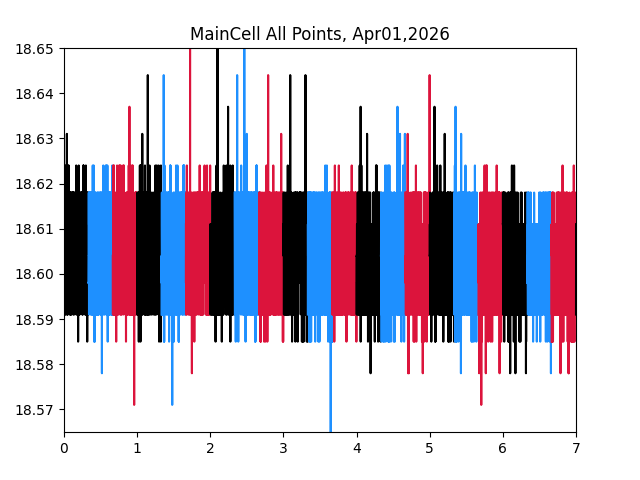
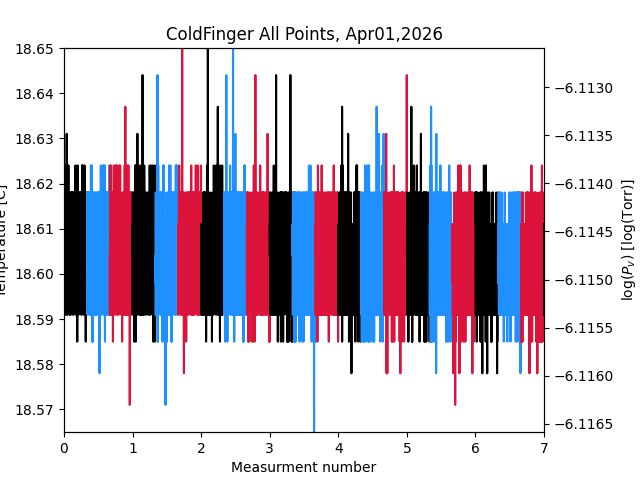
work

diff --git a/temperatureCheck.py b/temperatureCheck.py
@@ -24,7 +24,7 @@ def numerisize_date(contents):
                 time+= float(dat[2].split('PM')[0])/3600
             else:
                 time+= float(dat[2].split('AM')[0])/3600
-            time += float(dat[0])
+            time += float(dat[0])%12
             time += float(dat[1])/60
         else:
             time = float(meas.split('+')[1])
@@ -147,20 +147,20 @@ class TempAnalysis:
                 MeanPlots = [[0,0],[0,0]]
                 MeanPlots[0][0] = plt.figure()
                 MeanPlots[0][1] = plt.figure()
-                MeanPlots[1][0] = MeanPlots[0][0].add_axes([0.1,0.1,0.8,0.8])
+                MeanPlots[1][0] = MeanPlots[0][0].add_axes([0.1,0.1,0.75,0.8])
                 MeanPlots[1][1] = MeanPlots[0][1].add_axes([0.1,0.1,0.8,0.8])
                 meanplotdat = [[0,0],[0,0]]
 
                 MeanPlotsTimeScale = [[0,0],[0,0]]
                 MeanPlotsTimeScale[0][0] = plt.figure()
                 MeanPlotsTimeScale[0][1] = plt.figure()
-                MeanPlotsTimeScale[1][0] = MeanPlots[0][0].add_axes([0.1,0.1,0.8,0.8])
-                MeanPlotsTimeScale[1][1] = MeanPlots[0][1].add_axes([0.1,0.1,0.8,0.8])
+                MeanPlotsTimeScale[1][0] = MeanPlotsTimeScale[0][0].add_axes([0.1,0.1,0.75,0.8])
+                MeanPlotsTimeScale[1][1] = MeanPlotsTimeScale[0][1].add_axes([0.1,0.1,0.8,0.8])
 
                 AllPtPlots = [[0,0],[0,0]]
                 AllPtPlots[0][0] = plt.figure()
                 AllPtPlots[0][1] = plt.figure()
-                AllPtPlots[1][0] = AllPtPlots[0][0].add_axes([0.1,0.1,0.8,0.8])
+                AllPtPlots[1][0] = AllPtPlots[0][0].add_axes([0.1,0.1,0.75,0.8])
                 AllPtPlots[1][1] = AllPtPlots[0][1].add_axes([0.1,0.1,0.8,0.8])
 
                 vap_axis = [0,0,0]
@@ -168,7 +168,15 @@ class TempAnalysis:
                 vap_axis[1] = MeanPlots[1][0].twinx()
                 vap_axis[2] = MeanPlotsTimeScale[1][0].twinx()
 
-
+                for i in range(2):
+                    MeanPlots[1][i].set_xlabel('Measurment number')
+                    MeanPlots[1][i].set_ylabel('Temperature [C]')
+                    AllPtPlots[1][i].set_xlabel('Measurment number')
+                    AllPtPlots[1][i].set_ylabel('Temperature [C]')
+                    MeanPlotsTimeScale[1][i].set_xlabel('Time of Day')
+                    MeanPlotsTimeScale[1][i].set_ylabel('Temperature [C]')
+                    vap_axis[i].set_ylabel(r'log($P_v$) [log(Torr)]')
+                vap_axis[2].set_ylabel(r'log($P_v$) [log(Torr)]')
                 allptminmax = [[1000,-1000],[1000,-1000]]
                 tempminmac = [[0,0],[0,0]]
                 # print(contents)
@@ -216,6 +224,7 @@ class TempAnalysis:
                         AllPtPlots[1][1].plot(xallPt+i/3,temp[:,i+3],color=colors[i])
                 AllPtPlots[1][0].set_xlim(0,j)
                 AllPtPlots[1][0].set_ylim(allptminmax[0][0],allptminmax[0][1])
+                vap_axis[0].set_ylim(vapor_pres(allptminmax[0][0]),vapor_pres(allptminmax[0][1]))
                 AllPtPlots[1][0].set_title('ColdFinger All Points, '+self.date)
                 AllPtPlots[1][1].set_xlim(0,j)
                 AllPtPlots[1][1].set_ylim(allptminmax[1][0],allptminmax[1][1])
@@ -225,8 +234,9 @@ class TempAnalysis:
                 AllPtPlots[0][0].clear()
                 AllPtPlots[0][1].clear()
 
-                MeanPlots[1][0].set_xlim(0,j)
+                MeanPlots[1][0].set_xlim(0,j+1)
                 MeanPlots[1][0].set_ylim(allptminmax[0][0],allptminmax[0][1])
+                vap_axis[1].set_ylim(vapor_pres(allptminmax[0][0]),vapor_pres(allptminmax[0][1]))
                 MeanPlots[1][0].set_title('ColdFinger Means, '+self.date)
                 MeanPlots[1][1].set_xlim(0,j)
                 MeanPlots[1][1].set_ylim(allptminmax[1][0],allptminmax[1][1])
@@ -236,12 +246,13 @@ class TempAnalysis:
                 MeanPlots[0][0].clear()
                 MeanPlots[0][1].clear()
 
-                MeanPlotsTimeScale[1][0].set_xlim(0,j)
+                MeanPlotsTimeScale[1][0].set_xlim(np.floor(min(times)),np.ceil(max(times)))
                 MeanPlotsTimeScale[1][0].set_ylim(allptminmax[0][0],allptminmax[0][1])
-                MeanPlotsTimeScale[1][0].set_title('ColdFinger Means, '+self.date)
-                MeanPlotsTimeScale[1][1].set_xlim(0,j)
+                vap_axis[2].set_ylim(vapor_pres(allptminmax[0][0]),vapor_pres(allptminmax[0][1]))
+                MeanPlotsTimeScale[1][0].set_title('ColdFinger Means vs time, '+self.date)
+                MeanPlotsTimeScale[1][1].set_xlim(np.floor(min(times)),np.ceil(max(times)))
                 MeanPlotsTimeScale[1][1].set_ylim(allptminmax[1][0],allptminmax[1][1])
-                MeanPlotsTimeScale[1][1].set_title('MainCell Means, '+self.date)
+                MeanPlotsTimeScale[1][1].set_title('MainCell Means vs time, '+self.date)
                 MeanPlotsTimeScale[0][0].savefig(self.work_folder+'\\ColdTime.png')
                 MeanPlotsTimeScale[0][1].savefig(self.work_folder+'\\HotTime.png')
                 MeanPlotsTimeScale[0][0].clear()
@@ -252,7 +263,7 @@ class TempAnalysis:
                 self.window.title(self.date)
                 # except:
                 #     print('Not all valid data!\n select different folder!')
-                
+                plt.close('all')
 
 
 
@@ -267,7 +278,7 @@ class TempAnalysis:
             self.checkforanalysis()
 
 first = True
-scale = 1.2
+scale = 1.6
 if __name__ == '__main__':
     root = tk.Tk()
     if first:

diff --git a/TestingDataType.py b/TestingDataType.py
@@ -941,7 +941,7 @@ class data:
                 ('base', baseline, False, baseline*0.8, baseline*1.2, None, None))
             if self.scan == '456':
                 params['a'].set(value=1)
-                params['gamma'].set(vary=True)
+                # params['gamma'].set(vary=False)
                 params['base'].set(vary=True)
                 fun1 = lambda w,a,p0,h1,mv,T,gamma,base: (p0+h1*w)*np.exp(-a*((w-mv+self.abs_freq[0])/10**6)*(voigt(w,coeff[0],mv,np.sqrt(T+273.15)*k1*self.abs_freq[0],gamma)+
                                                                             voigt(w,coeff[1],mv+self.hypsplit[1],np.sqrt(T+273.15)*k1*self.abs_freq[1],gamma)+
@@ -949,7 +949,7 @@ class data:
                 mod = lm.Model(fun1,['w'],['a','p0','h1','mv','T','gamma','base'])
                 result = mod.fit(self.scaledT[self.beat_rng[0]:self.beat_rng[1]],params=params,w=plotting_freq,method='ampgo')
             else:
-                params['gamma'].set(vary=True)
+                # params['gamma'].set(vary=True)
                 params['base'].set(vary=True)
                 fun1 = lambda w,a,p0,h1,mv,T,gamma,base: (p0+h1*w)*np.exp(-a*((w-mv+self.abs_freq[0])/10**6)*(voigt(w,coeff[0],mv,np.sqrt(T+273.15)*k1*self.abs_freq[0],gamma)+
                                                                                                             voigt(w,coeff[1],mv+self.hypsplit[1],np.sqrt(T+273.15)*k1*self.abs_freq[1],gamma))) + base

diff --git a/Testing.py b/Testing.py
@@ -250,11 +250,12 @@ def vapor_pres(T):
     Pres = 7.046-3830/T
     return Pres
 
-temp = np.array([25,25.2,25.4,25.6])
+temp = np.array([26.32,26.33,26.34,26.35])
 x = np.array([1,2,3,4])
 MeanPlots = plt.figure()
 ax1 = MeanPlots.add_axes([0.1,0.1,0.8,0.8])
 ax2 = ax1.twinx()
 ax1.plot(x,temp,'--')
-ax2.plot(x,vapor_pres(temp),'.',color='red')
+# ax2.plot(x,vapor_pres(temp),'.',color='red')
+ax2.set_ylim(vapor_pres(temp[0]),vapor_pres(temp[-1]))
 plt.show()
